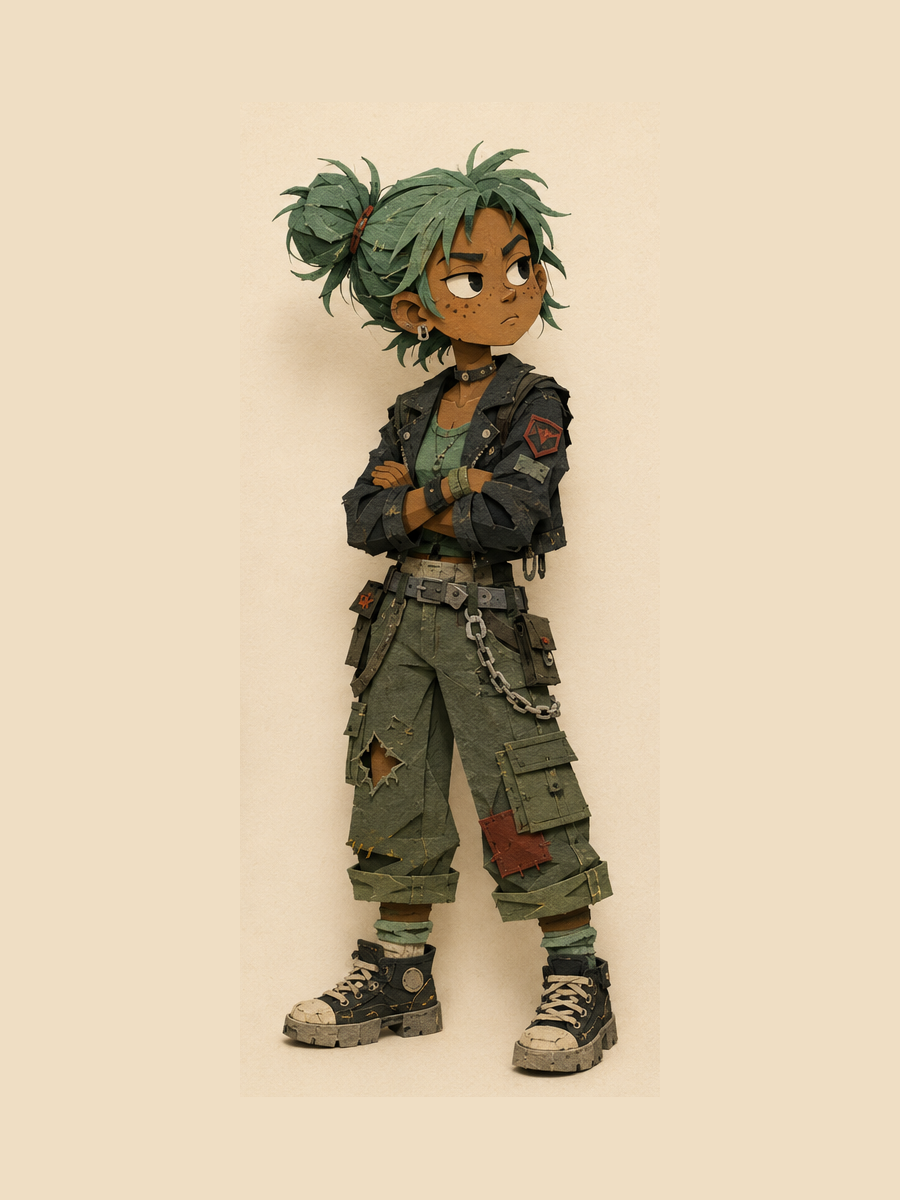
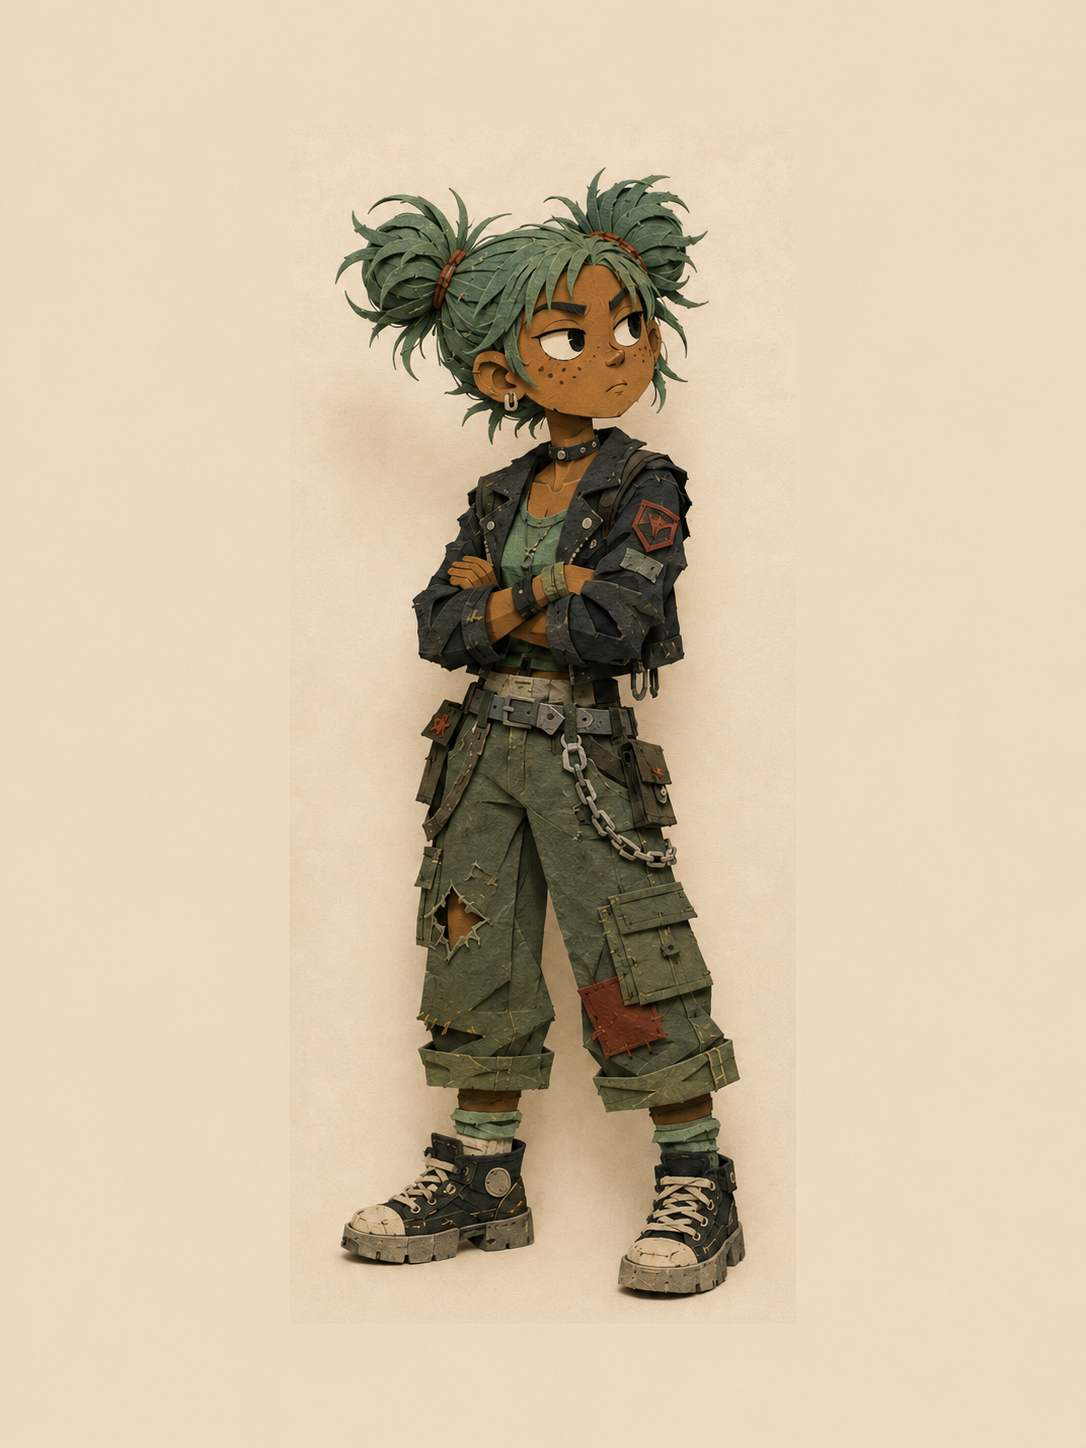
Split Volume 4 spread 7, and take in the corrected art and lineup
## The split

Spread 7 was the fullest page in the arc after the Volume 2 split, at 99.3 per
cent. Now 65.3, with the new spread 8 at 41.2 and Volume 4's worst page down to
89.2. Thirty-five text pages, median fill 82.6, nothing over 100.

The cut needed care: the split point is the SECOND of two identical "Okay."
paragraphs, so it cannot be found by its own text -- the project's note about
identical adjacent paragraphs applies exactly. Anchored on "Don't make it weird"
and searched forward from there, with an assertion that the moved block starts on
Owen's map.

It also un-breaks a beat. Lena's video used to start at the foot of spread 7 and
continue onto spread 8, so the page turn fell in the middle of her speaking to
camera. It now opens the new spread and finishes on the next, which is a turn
between sentences rather than through one.

Same slug discipline as Volume 2: spreads 8 and 9 became 9 and 10 but kept their
original Slug lines, so no delivered plate is renamed. parse's EXPECT and the
roster's section 7 go to 35/39.

## The art

Five plates updated and both Vex references corrected by the author. Henderson now
runs in tartan slippers with one half off his heel, which restores the joke and
sets up the price-tag running shoes two spreads later. Vex has her two side buns.
Lena has a gathered ponytail that breaks her silhouette. The streetlight's parked
cars now cast shadows that disagree with the pole's, which was the whole conceit of
[…]

diff --git a/lib/millbrook/cast.js b/lib/millbrook/cast.js
@@ -47,7 +47,7 @@ export const CAST = [
     role: 'Builds the thing that measures it',
     portrait: 'char-felix-canonical',
     ground: '#EEDDC5',
-    hotspot: { left: 10.5, width: 11 },
+    hotspot: { left: 7.4, width: 14.9 },
     bio: [
       'The shortest of them and the least worried about anything. Felix arrives at a '
       + 'problem the way other people arrive at a party.',
@@ -65,7 +65,7 @@ export const CAST = [
     role: 'Came to town with a folder and a question',
     portrait: 'char-lena-canonical',
     ground: '#EFDEC4',
-    hotspot: { left: 22, width: 12 },
+    hotspot: { left: 22.3, width: 13 },
     bio: [
       'Nine months of forum posts, deleted news clips and threads with three replies and '
       + 'a vanished account. Most of it junk. But there is a pattern in it, and Lena is '
@@ -83,7 +83,7 @@ export const CAST = [
     role: 'Has been awake for thirty-one hours',
     portrait: 'char-owen-canonical',
     ground: '#EEDDC5',
-    hotspot: { left: 35, width: 10 },
+    hotspot: { left: 35.3, width: 11.2 },
     bio: [
       'Three monitors, a row of dented cans, and a map nobody asked him to make.',
       'Owen plots every repair the town has made and finds an arc forming across it, '
@@ -99,7 +99,7 @@ export const CAST = [
     role: 'Watching from the high shelf',
     portrait: 'char-monke-canonical',
     ground: '#EAD6B9',
-    hotspot: { left: 45.5, width: 8.5 },
+    hotspot: { left: 46.5, width: 7.1 },
     bio: [
       'A small monkey who lives somewhere near the roof of the warehouse and comes down '
       + 'for granola bars.',
@@ -115,7 +115,7 @@ export const CAST = [
     role: 'Decides who is in',
     portrait: 'char-milo-canonical',
     ground: '#EEDDC5',
-    hotspot: { left: 54, width: 11 },
+    hotspot: { left: 53.6, width: 12.9 },
     bio: [
       'Tallest of them, and the hardest to read on purpose. Red-lensed glasses and an '
       + 'orange beanie he does not take off.',
@@ -131,7 +131,7 @@ export const CAST = [
     role: 'Sits a shade too still',
     portrait: 'char-pip-canonical',
     ground: '#EFDEC4',
-    hotspot: { left: 67, width: 11 },
+    hotspot: { left: 66.6, width: 12 },
     bio: [
       'A robot, and not a modified person. She will tell you so plainly if you ask, and '
       + 'the seams at her jaw and wrists make the question unnecessary.',
@@ -147,8 +147,8 @@ export const CAST = [
     name: 'Vex',
     role: 'Stole the dashcam. Not sorry',
     portrait: 'char-vex-canonical',
-    ground: '#EFDEC4',
-    hotspot: { left: 79, width: 11 },
+    ground: '#ECDAC0',
+    hotspot: { left: 78.6, width: 13.9 },
     bio: [
       'Mint-green hair, arms crossed, and a mouth that always looks about to say '
       + 'something rude. Usually is.',

diff --git a/patch-notes/specs/PATCH_NOTES_Vol4_Spec.md b/patch-notes/specs/PATCH_NOTES_Vol4_Spec.md
@@ -9,9 +9,20 @@ Style, negatives, characters, locations and wardrobe states live in `PATCH_NOTES
 
 ## Shot mix, this volume
 
-Establishing 2 | Character portrait 5 | Object 1 | Action 2 | Atmospheric 1
+Establishing 2 | Character portrait 6 | Object 1 | Action 2 | Atmospheric 1
 
 No three consecutive spreads share a shot type. Verified after the reframes below.
+
+**Eleven images now, not ten.** Spread 7 was the fullest page in the arc after the Volume 2
+split, at 99.3 per cent of its column. It was cut after the second of the two identical
+"Okay." lines, the one answering "Don’t make it weird" — 445 and 291 pixels of content. The
+new spread 8 carries the arc closing into a complete circle, the two "Tomorrow" lines and
+Lena recording The Real Feed.
+
+The new plate is a portrait, which puts it next to the existing portrait on the spread now
+numbered 9. That is a pair and the rule forbids three, so the mix still holds — but it is the
+tightest the sequence gets in this volume and is worth knowing before a twelfth image is ever
+added here.
 
 ## Rebuilt character-forward, 2026-07-29
 
@@ -483,7 +494,7 @@ Alt text: An elderly man rises out of a folding chair in the front row of an out
 
 ## Spread 7
 
-Pages 15 to 16 | Part Four: The Press Conference | Words 322
+Pages 15 to 16 | Part Four: The Press Conference | Words 177
 
 ### Text page (left), verbatim
 
@@ -512,16 +523,6 @@ Pip looked at the floor. “Thank you.”
 “Don’t make it weird.”
 
 “Okay.”
-
-Owen’s map glowed on the middle monitor. The arc was a complete circle now. The patch on the Mayor had finished it. The center was the old elementary school, a six-acre rectangle of fenced-off ground that nobody had walked on since the Event.
-
-“Tomorrow,” Milo said.
-
-“Tomorrow,” Owen agreed.
-
-Lena recorded a video that night. Just her, on the Warehouse couch with the pig asleep next to her, the camera on her phone propped against a coffee mug.
-
-“This is The Real Feed. There are things happening in this town. Some of them are good. Some of them are not. The man we elected is not telling the truth, and there is a man in a uniform who is not telling the truth either, and I don’t know yet what either of them is hiding. But I’m going to find out. I’m not asking permission.”
 
 ### Image page (right)
 
@@ -554,7 +555,62 @@ Alt text: Dented energy drink cans pushed tightly to one side of a desk to make 
 
 ## Spread 8
 
-Pages 17 to 18 | Part Four: The Press Conference | Words 226
+Pages 17 to 18 | Part Four: The Press Conference | Words 145
+
+### Text page (left), verbatim
+
+Owen’s map glowed on the middle monitor. The arc was a complete circle now. The patch on the Mayor had finished it. The center was the old elementary school, a six-acre rectangle of fenced-off ground that nobody had walked on since the Event.
+
+“Tomorrow,” Milo said.
+
+“Tomorrow,” Owen agreed.
+
+Lena recorded a video that night. Just her, on the Warehouse couch with the pig asleep next to her, the camera on her phone propped against a coffee mug.
+
+“This is The Real Feed. There are things happening in this town. Some of them are good. Some of them are not. The man we elected is not telling the truth, and there is a man in a uniform who is not telling the truth either, and I don’t know yet what either of them is hiding. But I’m going to find out. I’m not asking permission.”
+
+### Image page (right)
+
+Slug: vol4-s07b
+Shot type: Character portrait
+Depicts: Beat 4. Lena recording the closing video on the Warehouse couch late at night, the pig asleep against her hip.
+Spoiler check: PASS. Nothing in frame beyond her, the pig and the couch. The completed circle and the school at its centre are both named on this page and neither is depicted; both are public knowledge from Volume 3 spread 4 anyway.
+
+Hard constraints: Lena’s hair is gathered into one large uneven ponytail high at the BACK of her head, reading as a distinct heavy mass behind the crown rather than an evenly spiky halo, and it is never split into two or tied at the side. The phone screen shows no text, no interface and no image.
+
+**Why this plate exists.** Lena is a broadcaster and across four volumes the book had
+never once shown her broadcasting, which is a strange gap given it is the shape of her
+whole arc. It is also the first plate to use a screen as the key light on a single face,
+and the first proper appearance of the pig.
+
+**This split also un-breaks a beat.** Lena’s video used to start at the foot of spread 7
+and continue on spread 8, so the page turn fell in the middle of her speaking to camera.
+It now opens this spread and finishes on the next, which is a turn between sentences
+rather than through one.
+
+Prompt:
+
+```
+{{STYLE}}
+{{CHAR:LENA}}
+{{WARDROBE:LENA_D}}
+{{CHAR:PIG}}
+{{LOC:WAREHOUSE_PIT}}
+A girl sitting cross-legged on a worn couch late at night, talking directly into a phone that is propped up against a coffee mug on a low table in front of her. She leans slightly forward, caught mid-sentence, one hand open in front of her, and her expression is set and certain rather than nervous or performing. Her clothes are visibly creased and slept in. A small pot-bellied pig is asleep against her hip, completely relaxed, one ear flopped. The phone screen throws the main light up onto her face from below. Behind her the rest of the warehouse falls away into soft shadow with a few small equipment lights in it. Exactly one person and one animal in frame.
+Interior, late night.
+Medium shot from just behind and beside the phone, so the viewer sits roughly where her audience does, camera at seated eye level.
+Low-key but never murky. The phone is the key light and it is bright enough that her features and the colour of her clothing read fully, with a warm secondary source keeping the couch, the pig and the near wall clearly visible. A dark mood and a readable image at the same time.
+{{NEGATIVE}}
+Aspect ratio: 3:2
+```
+
+Alt text: A girl sits cross-legged on a couch at night talking to a phone propped against a mug, a small pig asleep beside her.
+
+---
+
+## Spread 9
+
+Pages 19 to 20 | Part Four: The Press Conference | Words 226
 
 ### Text page (left), verbatim
 
@@ -644,9 +700,9 @@ Alt text: A woman in a green cardigan stands behind the counter of a lit but clo
 
 ---
 
-## Spread 9
+## Spread 10
 
-Pages 19 to 20 | Part Four: The Press Conference | Words 122
+Pages 21 to 22 | Part Four: The Press Conference | Words 122
 
 Short page, deliberate. Deliberate coda spread. The last text page of the arc is short on purpose so the closing image carries the turn out of the book.
 

diff --git a/patch-notes/specs/PATCH_NOTES_FLIPBOOK_ROSTER.md b/patch-notes/specs/PATCH_NOTES_FLIPBOOK_ROSTER.md
@@ -725,9 +725,9 @@ No figures and no animals in the master. It is the room, not a scene.
 
 | | Count |
 |---|---|
-| Text spreads | 34 |
+| Text spreads | 35 |
 | Chapter openers | 4 |
-| **Spread images total** | **38** |
+| **Spread images total** | **39** |
 | Canonical character references | 13 |
 | Canonical location references | 8 |
 | **Blocking generations before spread work** | **21** |
